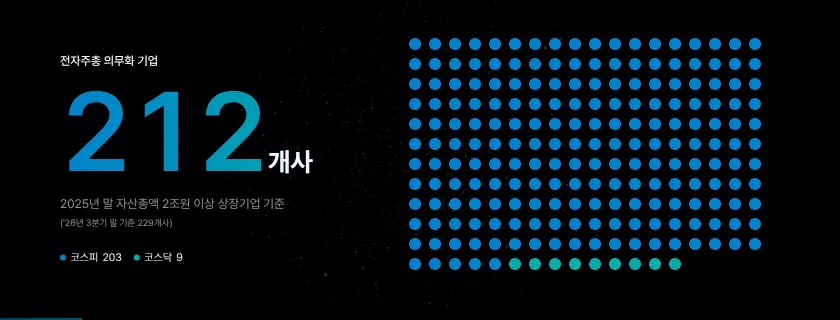
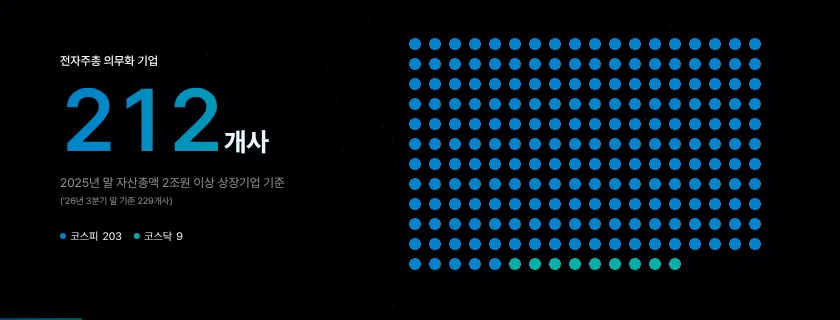
session4 K02: 카드 영역 오른쪽 · 아래로 넓힘(1250~3980 · 170~1420), 실시간 중계 · 관리기관 크롭 다시 + 위쪽 부드러운 페더, 장애 대응 인물 오른쪽, 사전신청제 · 난이도 도식과 글 간격, 전자출석 카드(위 오른쪽 1 · 아래 2 나란히). K04 212 숫자 560 → 440px. 썸네일 갱신
Claude-Session: https://claude.ai/code/session_01Mn7NmyW5iujmmHnaRBFKBZ

Changed region(s): [[0.0619, 0.25, 0.3714, 0.6562], [0.0619, 0.6875, 0.2167, 0.75], [0.0619, 0.7812, 0.2167, 0.8125]]

diff --git a/sw.js b/sw.js
@@ -1,5 +1,5 @@
 /* 오프라인 캐시 — 온라인 주소(https)로 한 번 열면 모든 파일을 저장해 두고, 통신이 끊겨도 저장본으로 동작합니다. */
-const V='seminar-screen-11261929';
+const V='seminar-screen-11261931';
 const FILES=["./","assets/KakaoBigSans-Bold.woff2","assets/KakaoBigSans-Regular.woff2","assets/KakaoSmallSans-Bold.woff2","assets/KakaoSmallSans-Light.woff2","assets/KakaoSmallSans-Regular.woff2","assets/OrbitControls.js","assets/PretendardVariable.woff2","assets/attendees.js","assets/blue-bloom.html","assets/cong1.webp","assets/cong2.webp","assets/ds-bg.html","assets/four-states.html","assets/intro.mp4","assets/irk-white.svg","assets/irk-wordmark-white.svg","assets/kism-intro.mp4","assets/kism-white.svg","assets/ksmp-white.svg","assets/panel.js","assets/qa-online.js","assets/s2/img1.png","assets/s2/img2.png","assets/s2/img3.png","assets/s2/img4.png","assets/s4/aws.webp","assets/s4/callcenter.webp","assets/s4/chair-1.webp","assets/s4/chair-2.webp","assets/s4/chair-3.webp","assets/s4/conexus-word.webp","assets/s4/ctl-1.webp","assets/s4/cx-1.webp","assets/s4/cx-2.webp","assets/s4/cx-3.webp","assets/s4/cx-flow.mp4","assets/s4/cx-pop1.webp","assets/s4/cx-pop2.webp","assets/s4/cx-vote.mp4","assets/s4/cx-vote.webp","assets/s4/cxs-1.webp","assets/s4/insurance.webp","assets/s4/isms-t.webp","assets/s4/isms.webp","assets/s4/ismsp-t.webp","assets/s4/ismsp.webp","assets/s4/kosmos-white.png","assets/s4/ks-1.webp","assets/s4/ks-2.webp","assets/s4/ks-3.webp","assets/s4/ks-4.webp","assets/s4/ks-5.webp","assets/s4/ks-video.webp","assets/s4/live-1.webp","assets/s4/live-2.webp","assets/s4/live-3.webp","assets/s4/live-4.webp","assets/s4/live-5.webp","assets/s4/live-6.webp","assets/s4/live-7.webp","assets/s4/live-8.webp","assets/s4/logos.webp","assets/s4/ocr-1.webp","assets/s4/ocr-2.webp","assets/s4/ocr-3.webp","assets/s4/ocr-4.webp","assets/s4/ocr-5.webp","assets/s4/on-1.png","assets/s4/on-2.webp","assets/s4/on-3.webp","assets/s4/on-4.png","assets/s4/on-5.webp","assets/s4/onboard-1.webp","assets/s4/onboard-2.webp","assets/s4/privacy.webp","assets/s4/proxymity.svg","assets/s4/rehearsal.webp","assets/s4/streaming-korea.webp","assets/s4/tab-1.webp","assets/s4/tab-2.webp","assets/s4/team.webp","assets/sched.js","assets/screen-title-2.svg","assets/screen-title-b-text.svg","assets/screen-title-b.svg","assets/seat-banners.js","assets/seat-fascia.js","assets/seat-screen.js","assets/seatmap.js","assets/service-intro.mp4","assets/speaker-scott.webp","assets/speaker1-1.webp","assets/speaker2.webp","assets/speaker3-1.webp","assets/supabase.min.js","assets/three.min.js","assets/title-logos.svg","control.html","index-fs.html","index.html","kism.html","lobby/cuts.html","lobby/index.html","mc.html","session2.html","session4.html","sw.js","tools/s2_build.py","tools/s2_shell.html","assets/s3/p01.webp","assets/s3/p02.webp","assets/s3/p03.webp","assets/s3/p04.webp","assets/s3/p05.webp","assets/s3/p06.webp","assets/s3/p07.webp","assets/s3/p08.webp","assets/s3/p09.webp","assets/s3/p10.webp","assets/s3/p11.webp","assets/s3/p12.webp","assets/s3/p13.webp","assets/s3/p14.webp","assets/s3/p15.webp","assets/s3/p16.webp","assets/s3/p17.webp","assets/s3/p18.webp","assets/s3/p19.webp","assets/s3/p20.webp","assets/s3/p21.webp","assets/s3/p22.webp","assets/s3/p23.webp","assets/kism/photo-main.webp","assets/kism/photo-2.webp","assets/kism/photo-3.webp","assets/kism/photo-4.webp","assets/sound/opening-hit.mp3","assets/s4/kosmos-color.svg","assets/s4/ke-logo.png","assets/s4/ke-live.mp4","assets/kism/kwon-talk.mp4","assets/kism/manual-book.webp","kism-open.html","kism_16x9.html","led.html","assets/s4/cx-ops.mp4","assets/s4/cx-ops.webp","assets/s4/agent-app.mp4","assets/s4/agent-app.webp","assets/s4/k24b-bg.webp","session0.html","assets/kism/photo-main-cut.webp","assets/s4/cx-chair.mp4","assets/s4/cx-chair.webp","assets/s4/cx-test.mp4","assets/s4/cx-test.webp","assets/s4/onboard-mgr.webp","assets/s4/proxymity-logo.png","assets/s4/k21-bg.webp","assets/s4/kosmos-admin-white.svg","assets/kism-intro-16x9.mp4","assets/seat-guide.html","assets/s4/app-icon-agent.svg","assets/ds-main.mp4","assets/s4/k2-agency.webp","assets/s4/k2-support.webp","assets/s4/thumbs/K00.webp","assets/s4/thumbs/K01.webp","assets/s4/thumbs/K02.webp","assets/s4/thumbs/K03.webp","assets/s4/thumbs/K04.webp","assets/s4/thumbs/K05.webp","assets/s4/thumbs/K06.webp","assets/s4/thumbs/K07.webp","assets/s4/thumbs/K08.webp","assets/s4/thumbs/K09.webp","assets/s4/thumbs/K10.webp","assets/s4/thumbs/K11.webp","assets/s4/thumbs/K12.webp","assets/s4/thumbs/K13.webp","assets/s4/thumbs/K14.webp","assets/s4/thumbs/K15.webp","assets/s4/thumbs/K16.webp","assets/s4/thumbs/K17.webp","assets/s4/thumbs/K18a.webp","assets/s4/thumbs/K18b.webp","assets/s4/thumbs/K18c.webp","assets/s4/thumbs/K19.webp","assets/s4/thumbs/K19b.webp","assets/s4/thumbs/K20.webp","assets/s4/thumbs/K21.webp","assets/s4/thumbs/K21b.webp","assets/s4/thumbs/K22s.webp","assets/s4/thumbs/K23.webp","assets/s4/thumbs/K23b.webp","assets/s4/thumbs/K24a.webp","assets/s4/thumbs/K24b.webp","assets/s4/thumbs/K24c.webp","assets/s4/thumbs/K25.webp","assets/s4/thumbs/K25b.webp","assets/s4/thumbs/K26.webp","assets/s4/thumbs/K27.webp","assets/s4/thumbs/K28a.webp","assets/s4/thumbs/K28b.webp","assets/s4/thumbs/K28c.webp","assets/s4/thumbs/K28d.webp","assets/s4/thumbs/K29.webp","assets/s4/thumbs/K30.webp"];
 self.addEventListener('install',e=>{e.waitUntil(caches.open(V).then(c=>c.addAll(FILES)).then(()=>self.skipWaiting()));});
 self.addEventListener('activate',e=>{e.waitUntil(caches.keys().then(ks=>Promise.all(ks.filter(k=>k!==V).map(k=>caches.delete(k)))).then(()=>self.clients.claim()));});

diff --git a/session4.html b/session4.html
@@ -1564,7 +1564,7 @@ html,body,body *{touch-action:none;-webkit-touch-callout:none;-webkit-user-selec
 #K10 .rows .p{font-weight:600}
 /* 11/26 18:10 세션 4 위아래 여백(먼 거리 가독): 제목 위 약 150px, 내용 아래 끝은 1360px 안쪽(아래 여백 ≥ 240px · 위보다 크게). 글자 크기는 유지하고 도식 · 영상 창 · 사진 높이와 위치로 조정 */
 #K27 .photo{background-image:url(assets/s4/k2-agency.webp)!important;background-position:center 12%!important}
-#K02 .bt{top:170px;height:1190px;left:1250px;right:300px;grid-template-columns:repeat(4,minmax(0,1fr));grid-template-rows:repeat(3,minmax(0,1fr))}
+#K02 .bt{top:170px;height:1250px;left:1250px;right:220px;grid-template-columns:repeat(4,minmax(0,1fr));grid-template-rows:repeat(3,minmax(0,1fr))}
 #K02 .bw,#K02 .bc{min-height:0}
 #K08 .k8h{top:310px!important}#K08 canvas.viz{top:410px!important}
 #K10 .rows{top:470px}
@@ -1643,6 +1643,14 @@ body.grid #sg{display:flex}
 body:not(.idle) #sgb{opacity:.9}body.grid #sgb{opacity:0;pointer-events:none}
 /* 11/26 19:25 간지 · 장 제목 한 줄 글씨는 모두 흰색(그라데이션 없음): 표지 2027 · IR큐더스, K15 「소집통지 · 리허설까지」, K21 「A to Z」 */
 .sec-h .g,.h .g,.h .ac,#K15 .h .ac,#K21 .k21t em{background:none!important;-webkit-background-clip:border-box!important;background-clip:border-box!important;color:#F2F5FA!important;-webkit-text-fill-color:#F2F5FA!important}
+/* 11/26 19:30 K02: 카드 영역 오른쪽 · 아래로 넓힘(1250~3980 · 170~1420). 중계 · 관리기관 크롭 다시(위쪽 부드러운 페더), 장애 대응 인물 오른쪽, 사전신청제 · 난이도 도식을 아래로(글과 간격), 전자출석 카드: 위 오른쪽 1장 · 아래 2장 나란히 */
+#K02 .bw.d .bc.im video{transform-origin:-20px -352px!important;-webkit-mask-image:linear-gradient(180deg,transparent 0,rgba(0,0,0,.3) 10%,#000 26%)!important;mask-image:linear-gradient(180deg,transparent 0,rgba(0,0,0,.3) 10%,#000 26%)!important}
+#K02 .bw.f .bc.im i{background-position:42% 190px!important;-webkit-mask-image:linear-gradient(180deg,transparent 0,transparent 46%,rgba(0,0,0,.5) 56%,#000 70%)!important;mask-image:linear-gradient(180deg,transparent 0,transparent 46%,rgba(0,0,0,.5) 56%,#000 70%)!important}
+#K02 .bw.g .bc.im i{background-size:128% auto!important;background-position:0% 4%!important}
+#K02 .tg{bottom:44px}#K02 .stp{height:130px;bottom:40px}#K02 .stp .sb i{height:calc(var(--h)*78px)}#K02 .stp .sb span{font-size:26px}
+#K02 .bc.ph .u1{left:551px!important;right:auto!important;top:59px!important;bottom:auto!important;width:551px!important}
+#K02 .bc.ph .u2{left:122px!important;right:auto!important;top:364px!important;bottom:auto!important;width:576px!important}
+#K02 .bc.ph .u3{left:776px!important;right:auto!important;top:364px!important;bottom:auto!important;width:483px!important}
 </style></head>
 <body>
 <div class="stage" id="stage">
@@ -1676,7 +1684,7 @@ body:not(.idle) #sgb{opacity:.9}body.grid #sgb{opacity:0;pointer-events:none}
 <section class="s" id="K04" data-t="의무화 기업 212개사" data-dim=".18" data-steps="1">
  <div class="ab" style="left:300px;top:300px;width:1500px">
   <p class="eb fu k5e" style="--i:0">전자주총 의무화 기업</p>
-  <p class="num g fu" style="--i:1;font-size:560px;margin-top:60px"><span class="cnt" data-to="212">212</span><small style="font-family:KakaoBig;font-weight:700;font-size:130px;-webkit-text-fill-color:#F2F5FA">개사</small></p>
+  <p class="num g fu" style="--i:1;font-size:440px;margin-top:60px"><span class="cnt" data-to="212">212</span><small style="font-family:KakaoBig;font-weight:700;font-size:130px;-webkit-text-fill-color:#F2F5FA">개사</small></p>
   <p class="sub fu" style="--i:2;margin-top:70px">2025년 말 자산총액 2조원 이상 상장기업 기준</p>
   <p class="sub fu k04n" style="--i:2;margin-top:18px">('26년 3분기 말 기준 229개사)</p>
   <div data-b="1" style="margin-top:90px;display:flex;gap:30px"><span class="chip"><i style="width:30px;height:30px;border-radius:50%;background:#0081cc"></i>코스피 <b>203</b></span><span class="chip"><i style="width:30px;height:30px;border-radius:50%;background:#00ada9"></i>코스닥 <b>9</b></span></div>

diff --git a/tools/s4_thumbs.py b/tools/s4_thumbs.py
@@ -1,5 +1,5 @@
-# 세션 4 썸네일 다시 만들기: 저장소 폴더에서 python3 -m http.server 8766 실행 후 python3 tools/s4_thumbs.py
-import asyncio,io
+# 세션 4 썸네일 다시 만들기: 저장소 폴더에서 python3 -m http.server 8766 실행 후 python3 tools/s4_thumbs.py [장번호 ...] (예: K02 K04, 없으면 전체)
+import asyncio,io,sys
 from PIL import Image
 from playwright.async_api import async_playwright
 async def main():
@@ -7,7 +7,9 @@ async def main():
         b=await p.chromium.launch();ctx=await b.new_context(viewport={'width':4200,'height':1600},device_scale_factor=.2);pg=await ctx.new_page()
         await pg.goto('http://localhost:8766/session4.html');await pg.wait_for_timeout(1500)
         ids=await pg.evaluate("[...document.querySelectorAll('section.s')].map(x=>x.id)")
+        only=sys.argv[1:]
         for i,id in enumerate(ids):
+            if only and id not in only:continue
             await pg.evaluate(f"S4.go({i})");await pg.wait_for_timeout(300)
             if id=='K01':
                 await pg.wait_for_timeout(1900);await pg.evaluate("document.body.classList.add('idle')")
